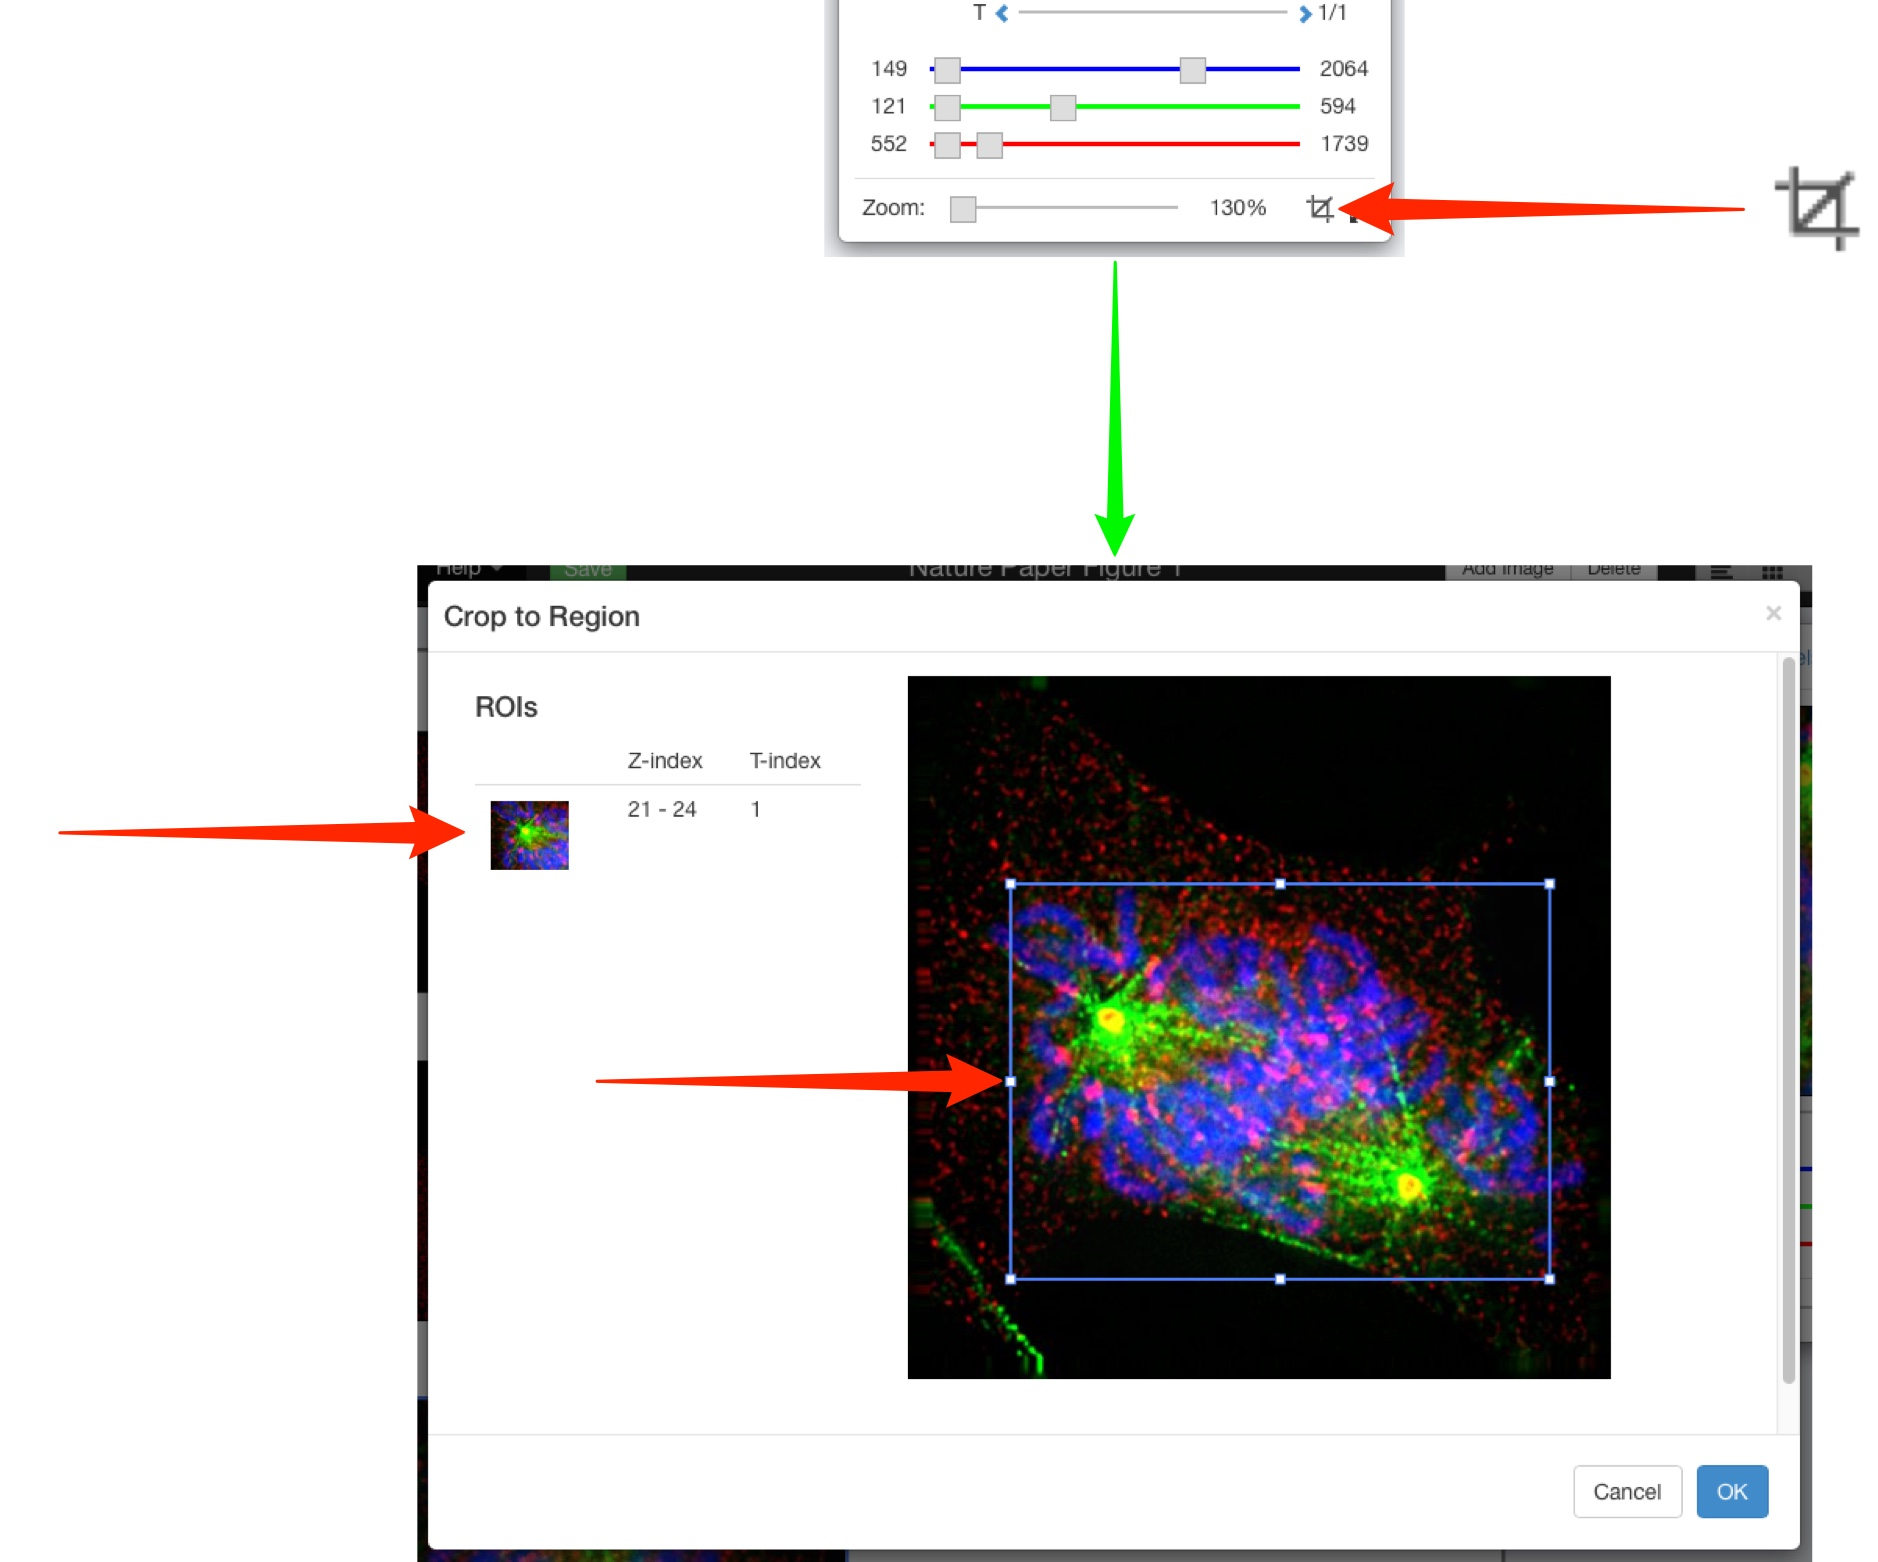
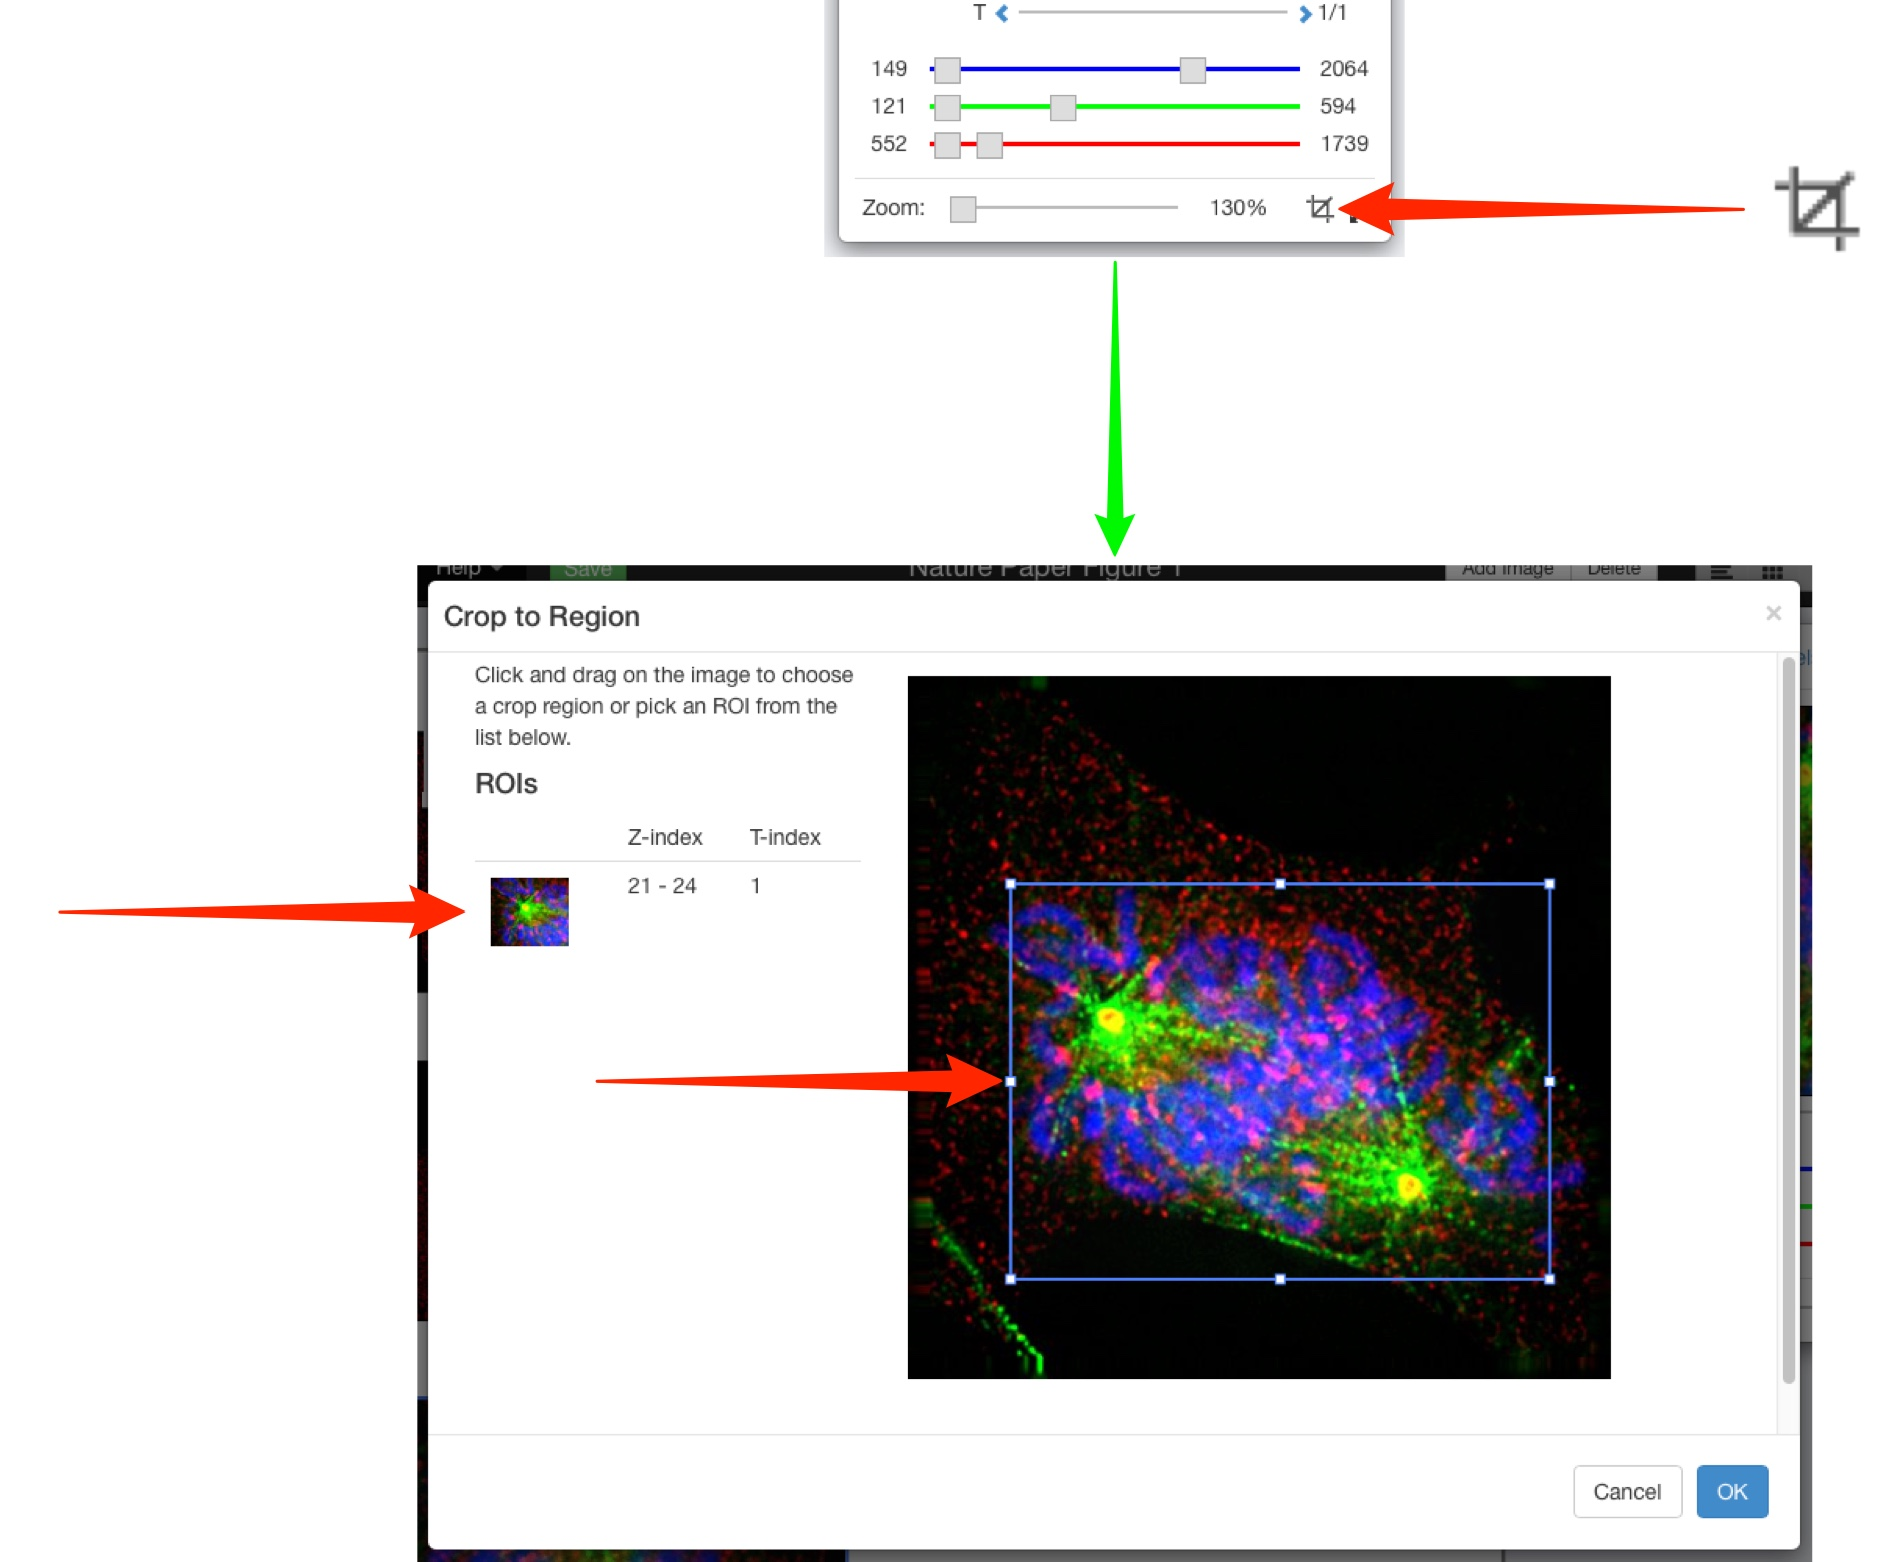
Addressing issues raised by Will in review.

Changed region(s): [[0.0309, 0.4302, 0.4633, 0.6146], [0.4015, 0.5224, 0.4324, 0.5531]]

diff --git a/figure.html b/figure.html
@@ -201,8 +201,7 @@ If you select two or more images that have different settings, for example, diff
 </div> <!-- end #line-block -->
 
 <li>
-<p class="first">Panels can be zoomed, panned by clicking-and-dragging, and the image rotated.</p>
-
+<p class="first">Using the Preview pane, panels can be zoomed, panned by clicking-and-dragging the preview image, and the image rotated.</p>
 <div class="line-block">
 <div class="line"><br /></div> <!-- end #line -->
 </div> <!-- end #line-block -->
@@ -253,7 +252,7 @@ If you select two or more images that have different settings, for example, diff
 
 <p>or click and drag on the image to draw a crop region.</p>
 
-<p>Use the drag handles to adjust the crop and click <span class="bold">OK</span>.p>
+<p>Use the drag handles to adjust the crop and click <span class="bold">OK</span>.</p>
 
 <div class="line-block">
 <div class="line"><br /></div> <!-- end #line -->
@@ -305,9 +304,7 @@ If you select two or more images that have different settings, for example, diff
 </div> <!-- end #line-block -->
 
 <li>
-<p lass="first">Select from the drop-down menu to use image name, dataset or metadata fields to automatically add labels and colours,</p>
-
-<p>or type your own text into the box.</p>
+<p lass="first">Select from the drop-down menu to use image name, dataset or metadata fields to automatically add labels, or type your own text into the box.</p>
 
 <p>Select font size, positioning and colour from the drop-downs.</p>
 
@@ -401,7 +398,7 @@ If you select two or more images that have different settings, for example, diff
 </div> <!-- end #line-block -->
 
 <li>
-<p class="first">Click <span class="bold">Edit Figure Legend</span> to add a scalebar to selected images.</p>
+<p class="first">Click <span class="bold">Edit Figure Legend</span> to add a legend to selected images.</p>
 
 <p>Mark-down syntax is supported to enable formatting of the text and inclusion of links.</p>
 
@@ -424,9 +421,11 @@ If you select two or more images that have different settings, for example, diff
 </li>
 
 <li>
-<p class="first">Click the <span class="bold">Info</span> tab and click on the <span class="bold">Set dpi</span> button to change the dpi settings  for a selected image.</p>
+<p class="first">Click the <span class="bold">Info</span> tab to see the resolution for selected panels in dpi.</p>
 
-<p>Interpolation will be used to achieve any non-default dpi setting.</p>
+<p>If you wish to increase the dpi of images within the exported PDF figure, click on the <span class="bold">Set dpi</span> button to choose a target resolution.</p>
+
+<p>Additional pixels will be created in the image and the data resampled using a bicubic filter.</p>
 
 <div class="warning">
 <p class="warning-title">Warning!</p>
@@ -519,11 +518,11 @@ If you select two or more images that have different settings, for example, diff
 </div> <!-- end #line-block -->
 
 <li>
-<p class="first">As the elements of the figure are saved as vector graphics, the PDF can be downloaded and further refined in your usual image editing app.</p>
+<p class="first">The final page of the exported PDF lists the names and links to the original images on the server for all the images used in the figure.</p>
 
-<p>The final page of the exported PDF lists the names and links to the original images on the server for allthe images used in the figure.</p>
+<p>This page also contains the text of any figure legend and other details of the figure.</p>
 
-<p>The page also contains the text of any figure legend and other details of the figure.</p>
+<p>As the elements of the figure are saved as vector graphics, the PDF can be downloaded and further refined by adding arrows or other text elements in your usual image editing app.</p>
 
 <div class="line-block">
 <div class="line"><br /></div> <!-- end #line -->
